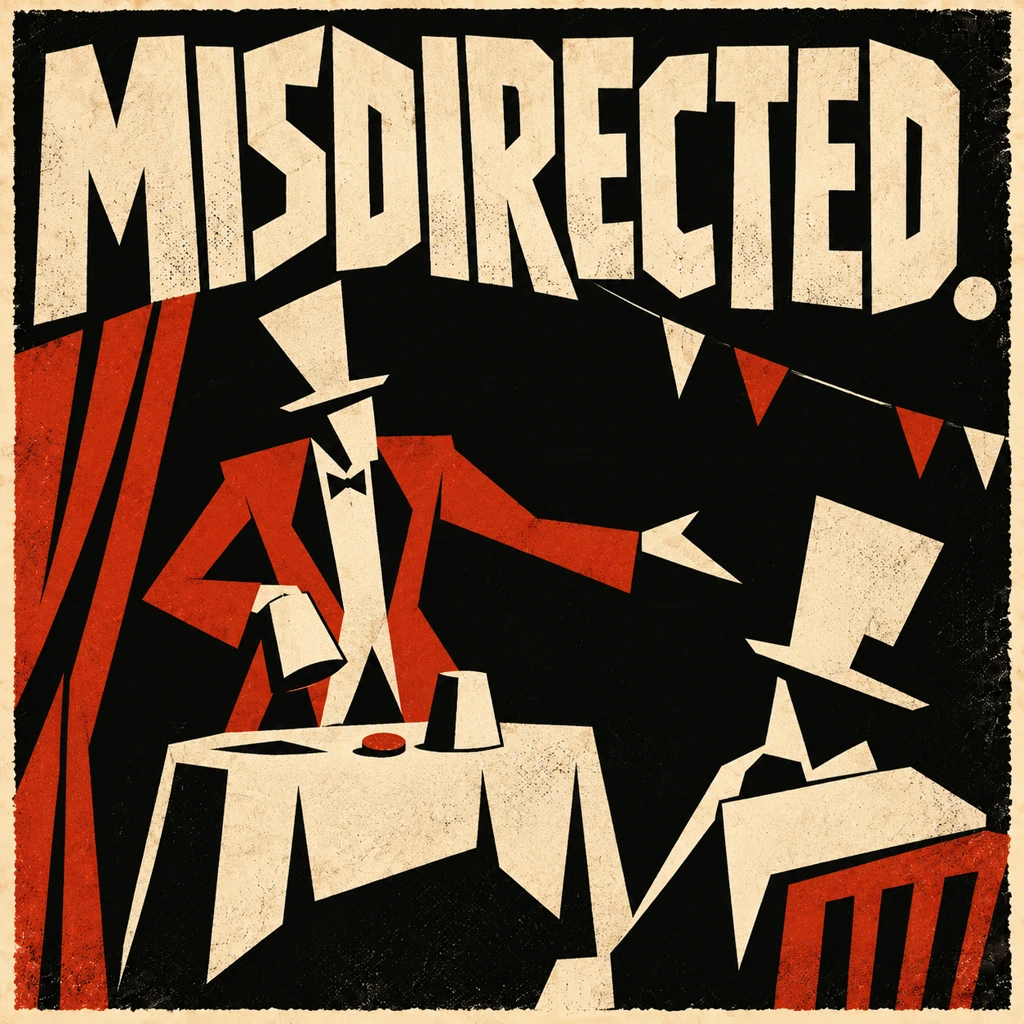
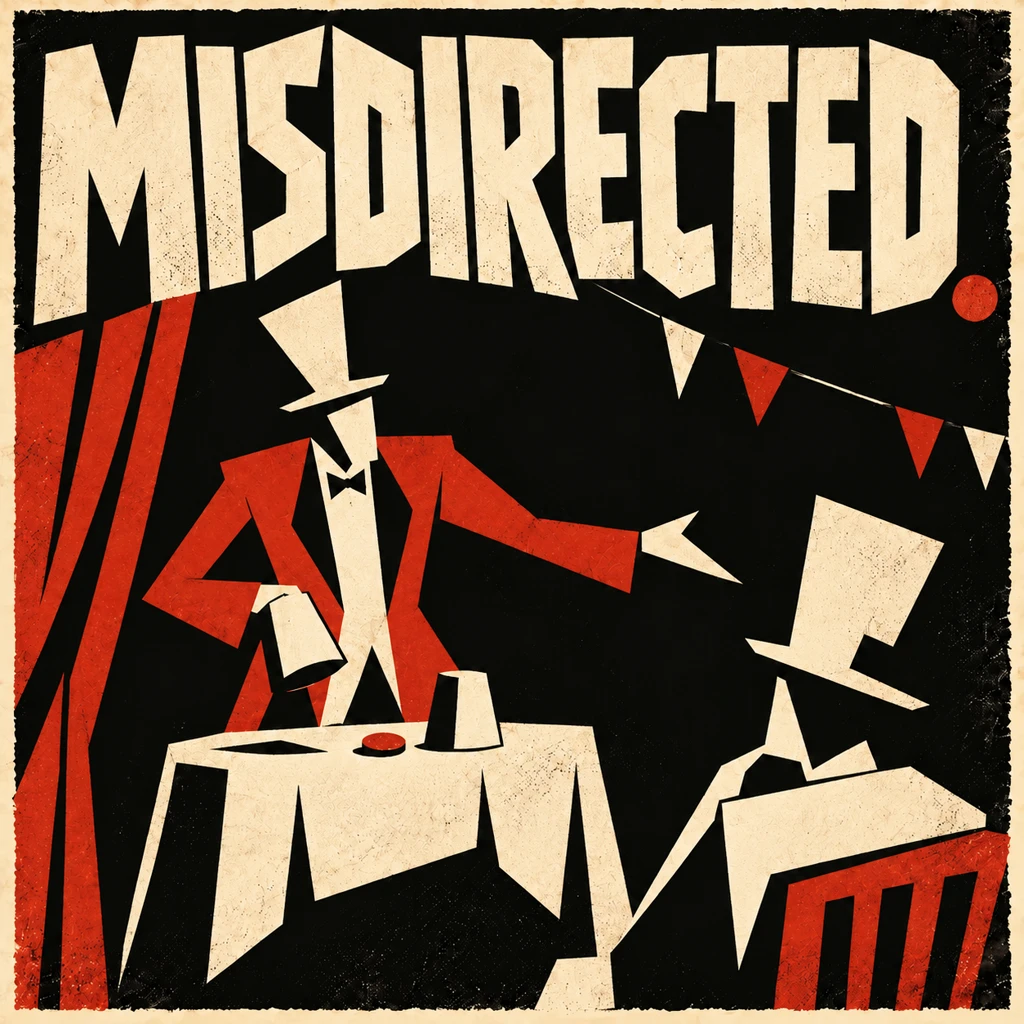
JC: make the Misdirected title period red

diff --git a/songs/junkyard-cabaret/misdirected/index.html b/songs/junkyard-cabaret/misdirected/index.html
@@ -13,7 +13,7 @@
     <meta property="og:url" content="https://charleswilke.com/songs/junkyard-cabaret/misdirected/">
     <meta property="og:title" content="Misdirected. | Junkyard Cabaret">
     <meta property="og:description" content="The barker teaches someone his trick, then finds himself watching his own replacement. A jaunty sleight-of-hand shuffle where the band keeps playing. From Junkyard Cabaret, a ramshackle album-in-progress.">
-    <meta property="og:image" content="https://charleswilke.com/audio/junkyard-cabaret/misdirected-title-v2.webp?v=202610172140">
+    <meta property="og:image" content="https://charleswilke.com/audio/junkyard-cabaret/misdirected-title-v2.webp?v=20261017redperiod">
     <meta property="og:image:width" content="1024">
     <meta property="og:image:height" content="1024">
     <meta property="og:image:alt" content="Misdirected. title art">
@@ -22,7 +22,7 @@
     <meta name="twitter:url" content="https://charleswilke.com/songs/junkyard-cabaret/misdirected/">
     <meta name="twitter:title" content="Misdirected. | Junkyard Cabaret">
     <meta name="twitter:description" content="The barker teaches someone his trick, then finds himself watching his own replacement. A jaunty sleight-of-hand shuffle where the band keeps playing. From Junkyard Cabaret, a ramshackle album-in-progress.">
-    <meta name="twitter:image" content="https://charleswilke.com/audio/junkyard-cabaret/misdirected-title-v2.webp?v=202610172140">
+    <meta name="twitter:image" content="https://charleswilke.com/audio/junkyard-cabaret/misdirected-title-v2.webp?v=20261017redperiod">
     <meta name="twitter:image:alt" content="Misdirected. title art">
 
     <link rel="icon" type="image/x-icon" href="/favicon.ico?v=202607032147">
@@ -41,7 +41,7 @@
     "name": "Junkyard Cabaret"
   },
   "url": "https://charleswilke.com/songs/junkyard-cabaret/misdirected/",
-  "image": "https://charleswilke.com/audio/junkyard-cabaret/misdirected-title-v2.webp?v=202610172140"
+  "image": "https://charleswilke.com/audio/junkyard-cabaret/misdirected-title-v2.webp?v=20261017redperiod"
 }
     </script>
 

diff --git a/main.js b/main.js
@@ -5678,7 +5678,7 @@ function initJCLightbox() {
         { title: 'Refuse the Call', file: '/audio/junkyard-cabaret/refuse-the-call.mp3', cover: '/audio/junkyard-cabaret/refuse-the-call-title.webp?v=20261017abstract', article: 'https://charleswilke.substack.com/p/salve-for-the-algorithmic-rash' },
         { title: 'Mind the Drop', file: '/audio/junkyard-cabaret/mind-the-drop.mp3?v=202606261404', cover: '/audio/junkyard-cabaret/mind-the-drop-title.webp?v=202607041720', article: 'https://charleswilke.substack.com/p/creative-spirits' },
         { title: 'Fits and Starts', file: '/audio/junkyard-cabaret/fits-and-starts.mp3?v=20261017', cover: '/audio/junkyard-cabaret/fits-and-starts-title-v2.webp?v=20261017', article: 'https://charleswilke.substack.com/p/fits-and-starts' },
-        { title: 'Misdirected.', file: '/audio/junkyard-cabaret/misdirected.mp3?v=202610172140', cover: '/audio/junkyard-cabaret/misdirected-title-v2.webp?v=202610172140', article: 'https://charleswilke.substack.com/p/misdirected' },
+        { title: 'Misdirected.', file: '/audio/junkyard-cabaret/misdirected.mp3?v=202610172140', cover: '/audio/junkyard-cabaret/misdirected-title-v2.webp?v=20261017redperiod', article: 'https://charleswilke.substack.com/p/misdirected' },
         { title: 'Scarce', act: 'Encore', actInline: true, file: '/audio/junkyard-cabaret/scarce.mp3?v=202607121551', cover: '/audio/junkyard-cabaret/scarce-title.webp', article: 'https://charleswilke.substack.com/p/scarce' }
     ];
 

diff --git a/index.html b/index.html
@@ -1062,6 +1062,6 @@
 <script src="/vendor/dompurify.min.js?v=3.4.15" defer></script>
 <script src="/laibor-rails.js?v=1" defer></script>
 <script src="/article-reader-ui.js?v=1" defer></script>
-<script src="/main.js?v=707c49c4" defer></script>
+<script src="/main.js?v=6e210da0" defer></script>
 </body>
 </html>

diff --git a/tools/misdirected-title-art-prompt.md b/tools/misdirected-title-art-prompt.md
@@ -15,3 +15,9 @@ Narrative: The carnival barker from the opening act returns, warm and practiced,
 Composition: Huge readable irregular condensed cream lettering across the upper third reading exactly "MISDIRECTED." on one unbroken line, safely inset. Below, a small crooked cream tabletop holds a simple cup and tiny red coin. An angular cream and black top-hatted barker in a rusty red coat stands behind the table, one long flat gesturing hand directing attention toward the coin. A second smaller top-hatted cream silhouette in the foreground watches the act, with the same distinctive hat shape and posture subtly echoing the performer. Their role reversal should read through this economical composition. One simple crooked curtain edge evokes an intimate tent. Strong black negative space. Quiet joke, jaunty asymmetry, minimal geometric forms with no descriptive faces, fingers or modeled anatomy. Fine rough paper edge.
 Text (verbatim): "MISDIRECTED." M I S D I R E C T E D followed by a period. No other text.
 Avoid: melodrama, grief, horror, tears, distressed poses, smoke effects, glowing sparks, mirrors, robots, glossy 3D, gradients, photorealism, dense detailed carnival scenery, extra slogans, credits, album name. Keep shapes boldly abstract like the references, title legible at thumbnail size.
+
+## Red period revision
+
+Edited with built-in imagegen. Final asset remains `audio/junkyard-cabaret/misdirected-title-v2.webp`; the prior cream-period version is recoverable from git commit 3107dfc.
+
+Prompt: Change only the cream circular period immediately after the final D in MISDIRECTED. to the same rusty vermilion red used in the coat, curtain, and coin. Preserve its size, position, shape, and worn ink texture. Keep all lettering, figures, composition, border, textures, and square format unchanged.
